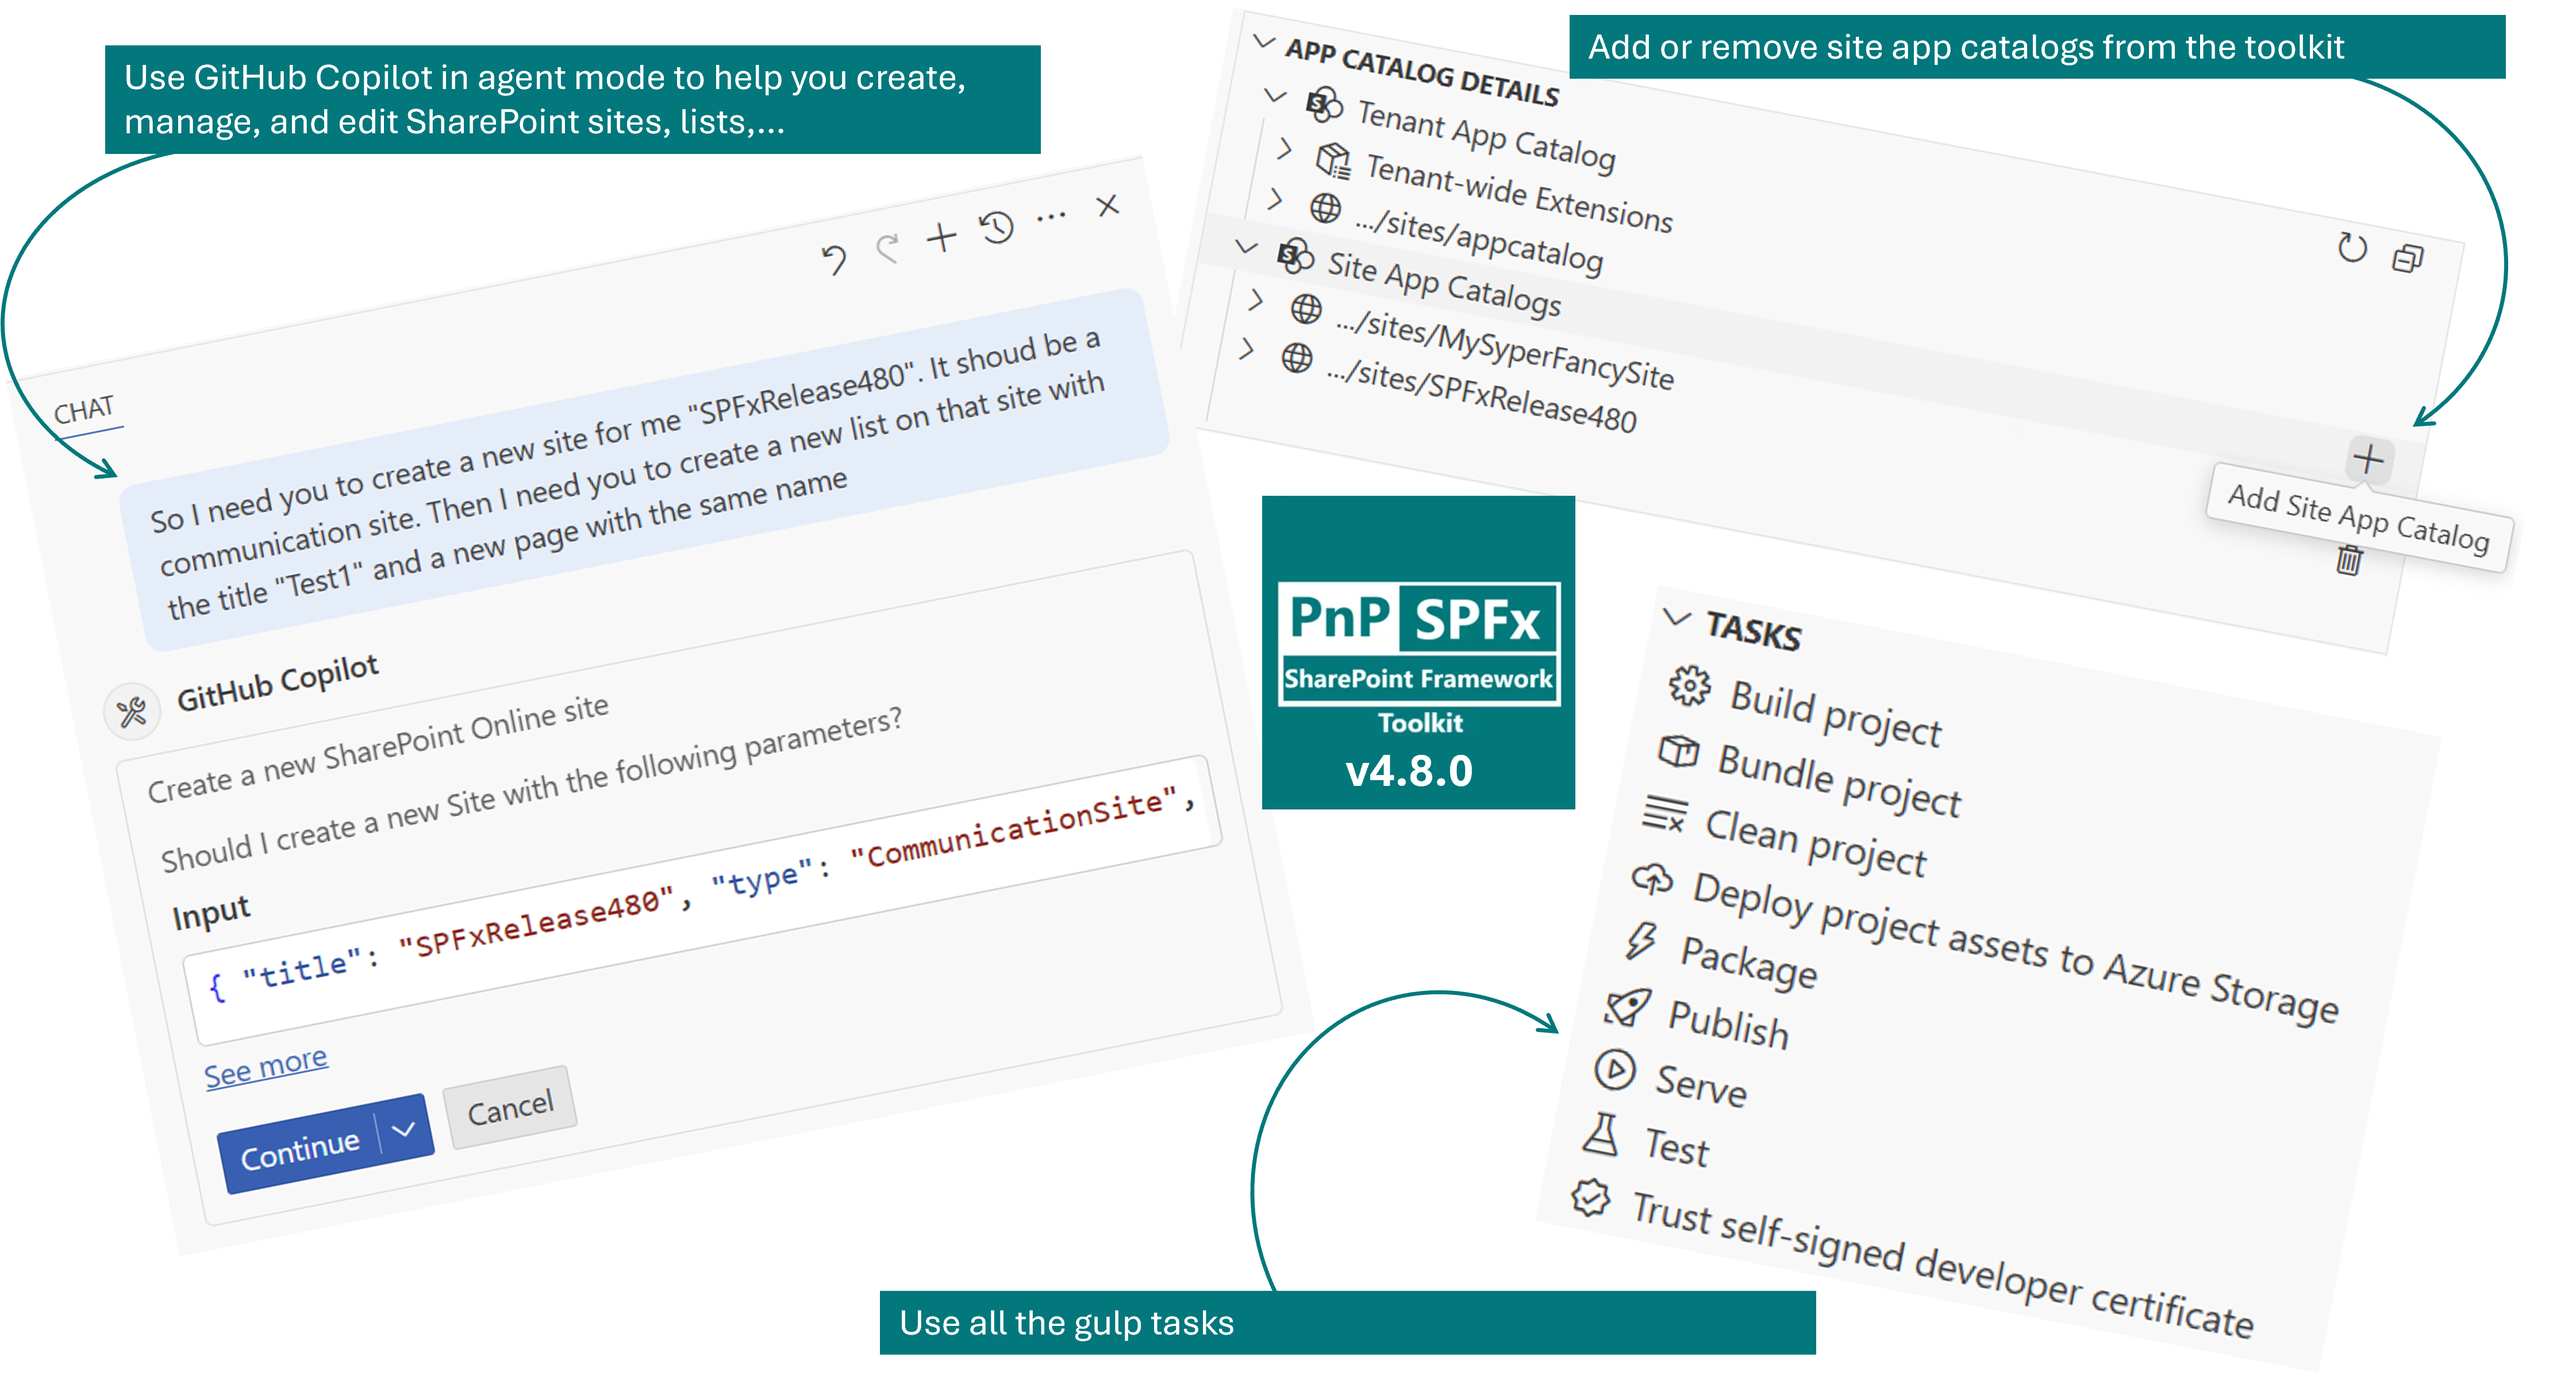
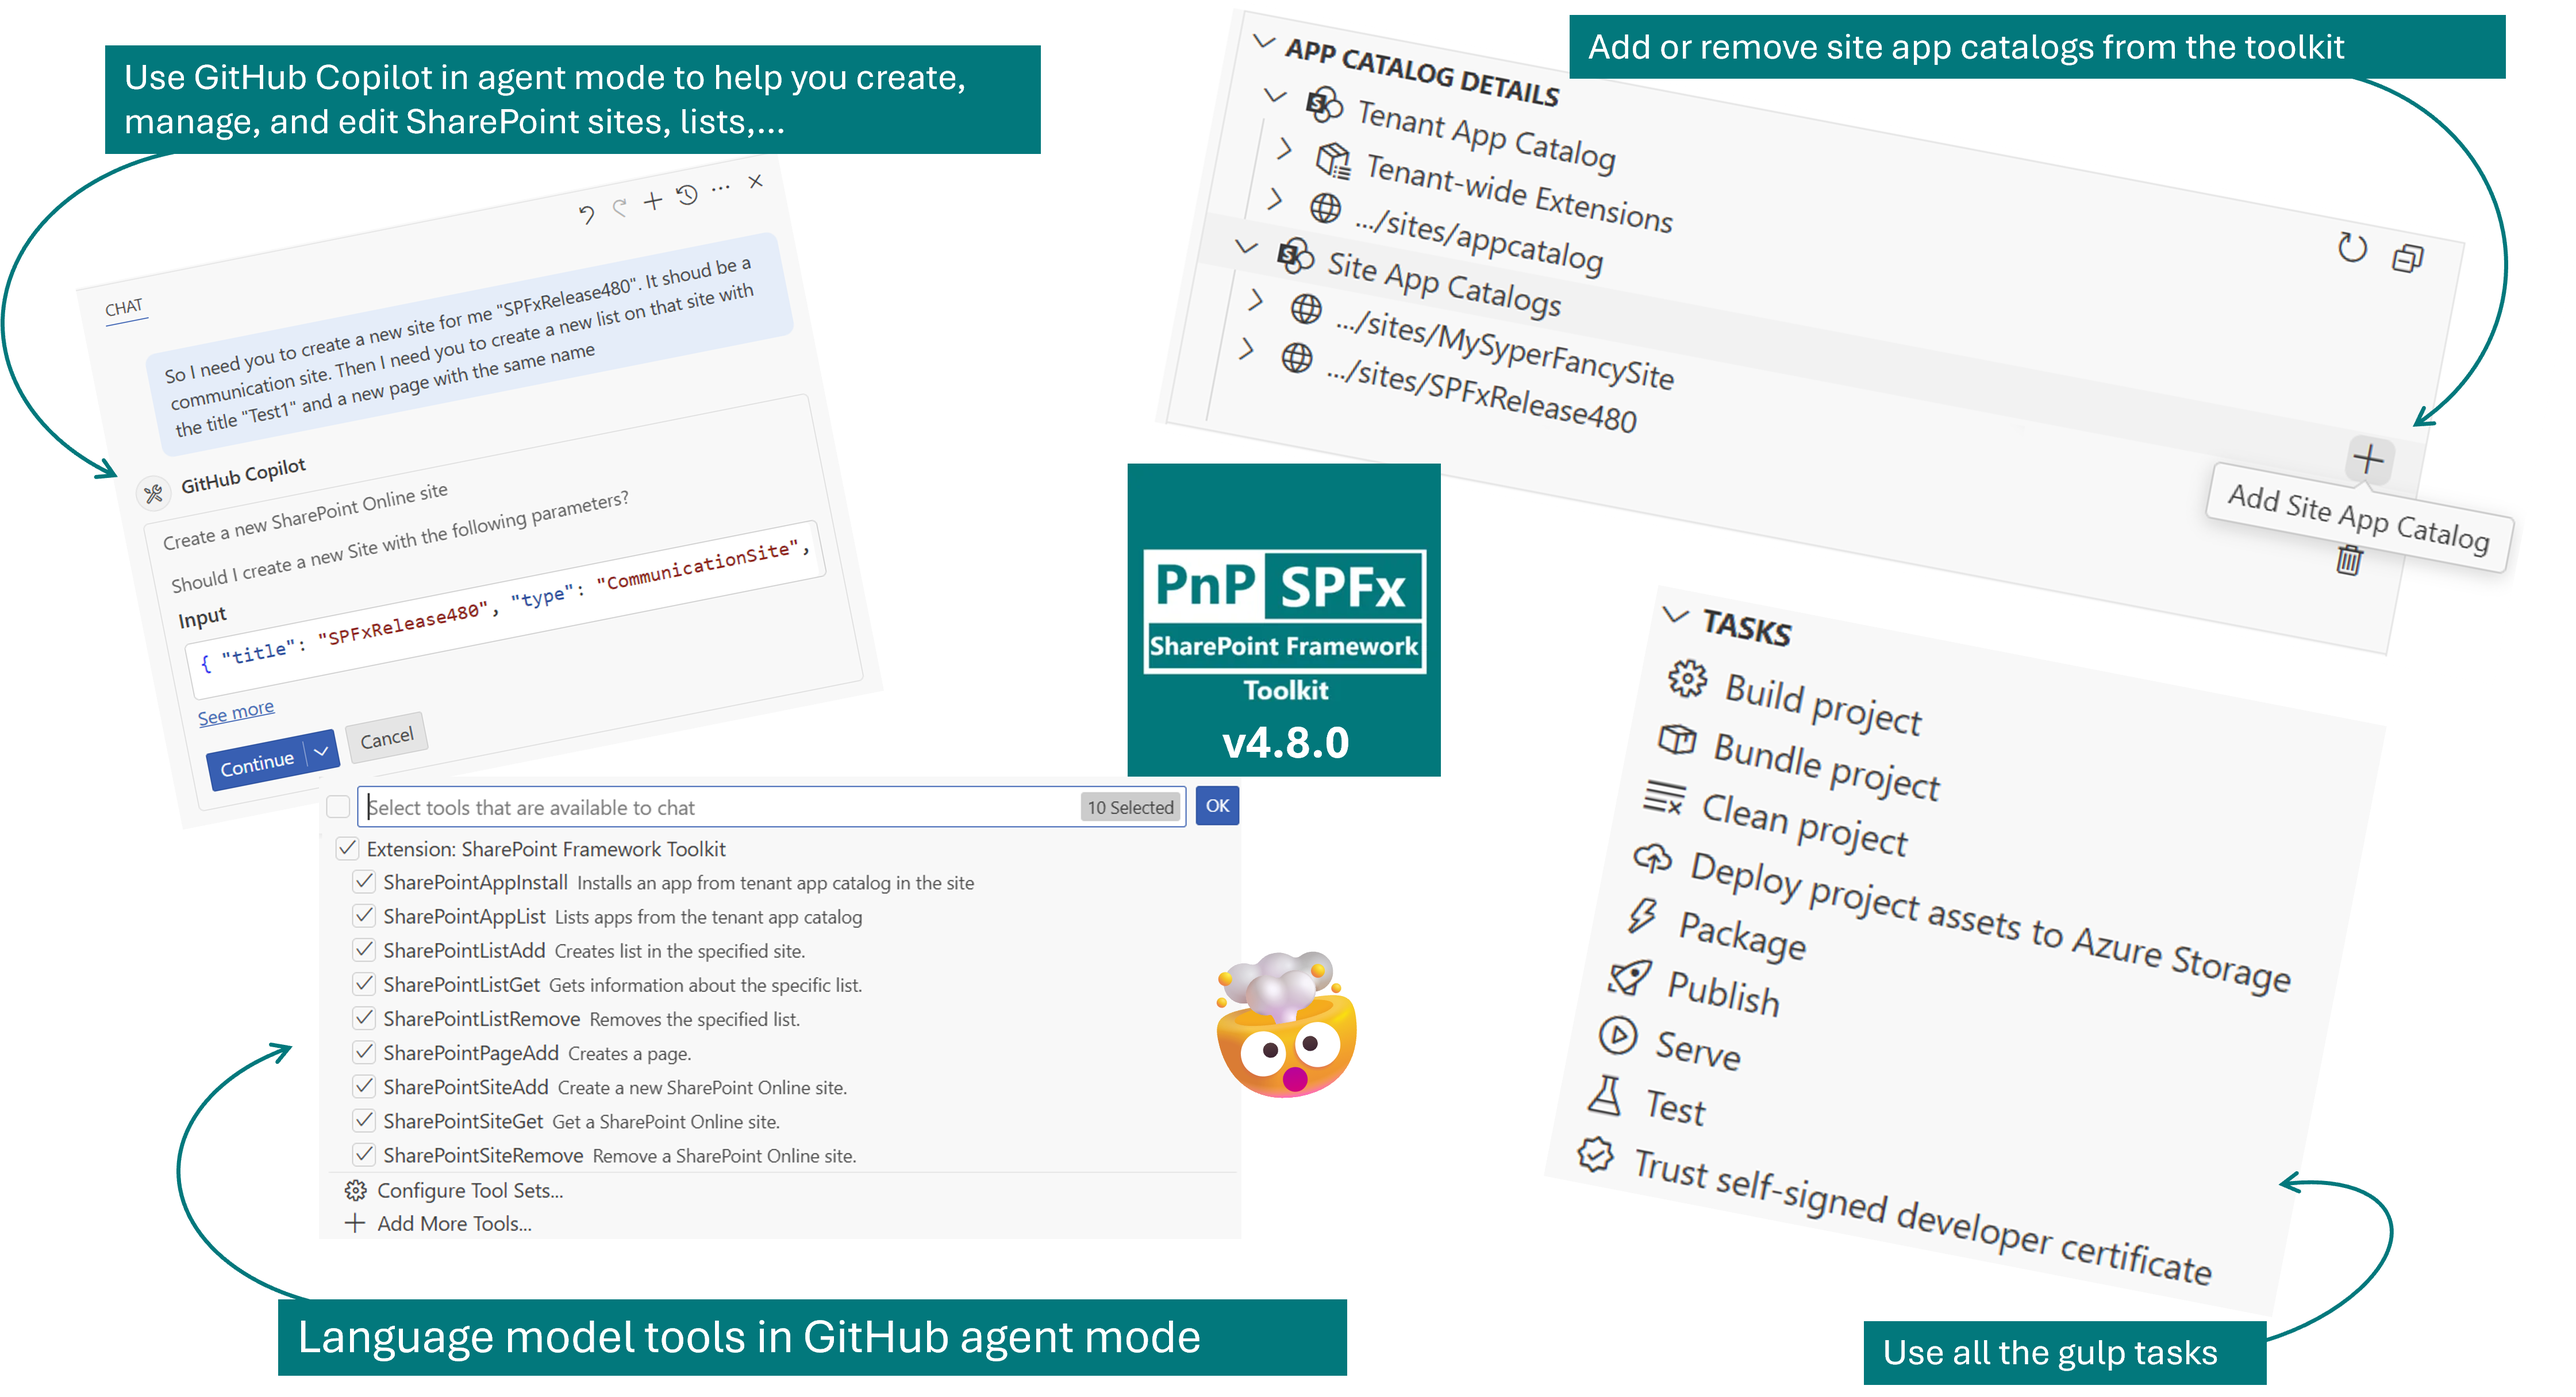
Changes part 2

diff --git a/content/post/spfx-toolkit-vscode-v-4-8-release/index.md b/content/post/spfx-toolkit-vscode-v-4-8-release/index.md
@@ -28,12 +28,23 @@ Sounds cool 😎? Let's see some new enhancements we added in this minor release
 
 ##  Language model tools for GitHub Copilot agent mode
 
-This is the first prototype of language model tools integrated into the SPFx Toolkit. The goal? To explore how GitHub Copilot in agent mode can help you create, manage, and edit SharePoint content like sites, lists, and items directly from VS Code.
-We’re starting with these core SharePoint scenarios, and plan to expand and refine the available tools in future updates.
+Every SPFx solution, sooner or later, will need some SharePoint resources like a site, page, list, content types, items etc.
+
+Imagine being able to create them without stepping out of VS Code 🤯!
+
+That is exactly why we took the first steps to make this happen with the help of GitHub Agent mode. SPFx Toolkit now comes along with language model tools that you may use directly from within GitHub Copilot chat extension in agent mode.
 
 ![llm](images/llm.png)
+
+Based on your prompt, GitHub Copilot will figure out the best tool that it may use to fulfill your prompt.
+
 ![createsite](images/createsite.png)
+
+You may even chain multiple operations within a single prompt, as the agent mode is capable of executing multiple tasks that are required by your prompt.
+
 ![githubactionsprogress](images/githubactionsprogress.png)
+
+We are only getting started, but we already see a bright future and many possibilities to reshape how developers will be able to scaffold or prep their solutions. Sky is the limit 🚀!
 
 ## Support for installing the correct Node.js version
 
@@ -81,7 +92,7 @@ Now, you can perform these actions directly from within Visual Studio Code using
 
 - **Add a tenant app catalog:** If your tenant doesn’t already have an app catalog, you can create one with just a few clicks where the toolkit will guide you through the process.
 - **Add a site app catalog:** Need to scope app deployment to a specific site collection? You can now add a site app catalog to any eligible site directly from the toolkit. This is especially useful for scenarios where you want to test or deploy solutions without affecting the entire tenant.
-- **Remove a site app catalog:** If you no longer need a site app catalog, you can remove it just as easily. The toolkit ensures that the removal process is safe and provides confirmation prompts to prevent accidental deletions.
+- **Remove a site app catalog:** If you no longer need a site app catalog, you can disable it just as easily. Note that this does not actually delete the app catalog, but instead disables it, making all apps from that app catalog unavailable for installation on the related site. The toolkit ensures that the process is safe and provides confirmation prompts to prevent accidental actions.
 
 All these actions are available from the command palette and the toolkit’s UI, so you never have to leave your development environment. This streamlines your workflow, reduces context switching, and helps you stay focused on building great solutions.
 
